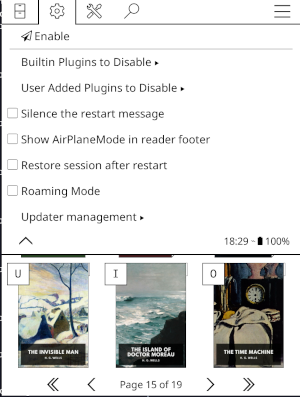
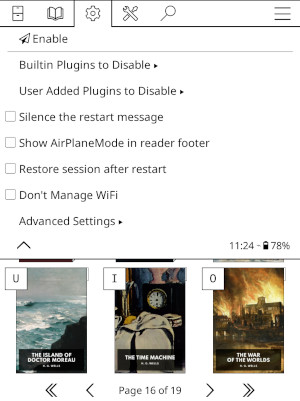
Pre-release clean-up (#81)
* Updates to docs for release

Pull request: Pre-release clean-up
Cleaning up for a release to replace broken code in the current version

Changed region(s): [[0.0, 0.0, 1.0, 1.0], [0.06, 0.2116, 0.63, 0.2418]]

diff --git a/CHANGELOG.md b/CHANGELOG.md
@@ -1,43 +1,49 @@
 # Changelog
 
-## v.1.9.9 (pre-release)
+## [1.9.0]
 
-### 🚀 Added
+### Added 🚀
 
-- An update manager - now you can update AirPlaneMode from directly inside the plugin (#71)
 - Broke builtin and user added plugins into separate spaces (#64)
+- Added `About` box, as well as more information for use when submitting bug reports
 
-### 🏠 Housekeeping
+### Housekeeping 🏠
 
-* Heavy refactor, breaking the monolithic lua file into components
-* Moved all settings management that is AirPlaneMode specific to the AirPlaneMode config file
-* Added a hook for `stopPlugin` calls (#68)
-* Added a hook to delete configs when being disabled by KOReader the plugin manager (#65)
-* Improved linting and tests for pre-release checks
+- Heavy initial refactor, breaking the monolithic lua file into components
+- Moved all settings management that is AirPlaneMode specific to the AirPlaneMode config file
+- Added a hook for `stopPlugin` calls (#68)
+- Added a hook to delete configs when being disabled by KOReader the plugin manager (#65)
+- Improved linting and tests for pre-release checks
 
-## v.1.2.2 🔥
+### Experimental 💣
+
+- Developer mode added - disable/enable features that are still in progress
+- Debug logging - enables/disables debug logging, only available when devmode is on
+- Update manager - now you can update AirPlaneMode from directly inside the plugin (#71). Currently gated with dev mode
+
+## [1.2.2] 🔥
 
 - More version comparison fun. Removed it. Found while testing issue #60
 
-## v.1.2.1 🔥
+## [1.2.1] 🔥
 
 - Fixed logic bug for version comparisons (was trying to compare ints, but sometimes I had alphanumeric versions)
 - Fixed a typo that could cause crashes
 
-## v.1.2.0
+## [1.2.0]
 
 - for when you mess up your own tagging scheme.
 
-## v.1.1.0
+## [1.1.0]
 
-### 🚀 Added
+### Added 🚀
 
 - Added additional settings flushes - in final testing for the next release, discovered that without those extra flushes changes weren't being properly propagated.
 - New Koreader release, bumping this build for stable users.
 
-## v.1.0.2
+## [1.0.2]
 
-### 🚀 Added
+### Added 🚀
 
 - Issue 52 - adding github actions for linting and release builds
 - Issue 46 - wifi settings that weren't in the original configuration need to be just removed (_except if an emulator_)
@@ -53,15 +59,13 @@
   - Removed message for android devices (no longer relevant)
   - Made "disable device management" visible only to users who can manage their hardware
 
-## v.1.0.1b (2025.11.25)
-
-### 🔥 Hotfix
+## [1.0.1b] (2025.11.25) 🔥
 
 - Issue 32 - crash reported on kindle when enabling/disabling outside of reader mode. Confirmed on KLC.
 
-## v.1.0.1 (2025.11.25)
+## [1.0.1] (2025.11.25)
 
-### 🚀 Added
+### Added 🚀
 
 - Added better version management. The plugin will now warn if being run with a config from a newer version; the \_meta file has been updated to list the version so that external plugin managers like [UpdatesManager](https://github.com/advokatb/updatesmanager.koplugin) can easily identify whether a local install needs updating; general clean up around how the version is stored and updated within the configs
 
@@ -71,15 +75,15 @@
 
 - Added dynamic "plugin stop" call, supporting the new function call to disable a plugin's external software (like with SSH, which spawns dropbear)
 
-### 🩹 Fixes
+### Fixes 🩹
 
 - Fixed how reading location is preserved when restarting. Now accurately returns KOReader to the page it restarted on
 
 - Fix for the reader footer patch to not crash when trying to order or save footer preferences ([#17](https://github.com/kodermike/airplanemode.koplugin/issues/17))
 
-## v.1.0.0 (2025.08.16)
+## [1.0.0] (2025.08.16)
 
-### 🚀 Added
+### Added 🚀
 
 - <u>Configuration management</u> (and a configuration to manage!). This includes
   - Minor updates to plugin support, in particular not turning off Calibre and instead just disabling the wireless function. This lets users continue to search using the calibre metadata search even when offline.
@@ -92,11 +96,11 @@
 
   - Changed what (and how to some extent) we store in the airplanemode configuration file. Existing users should be migrated seemlessly the first time they launch koreader with the new version.
 
-### 🩹 Fixes
+### Fixes 🩹
 
 - Correctly call the ui function to disable SSH if it's running when we start
 
-## v.0.0.4 - QoL update (2025.06.14)
+## [0.0.4] - QoL update (2025.06.14)
 
 - Remove unnecessary visual of a checkbox
 
@@ -108,13 +112,13 @@
 
 - May have finally locked down networking on kindles. Tests on paperwhite are now consistantly up
 
-## v0.0.3 (2025.05.26)
+## [0.0.3] (2025.05.26)
 
-### 🚀 Added
+### Added 🚀
 
 - Gesture support
 
-### 🩹 Fixes
+### Fixes 🩹
 
 - Finally figured out enable/disble wifi so it works on different devices correctly. Tested on Clara and Kindle, plugin settings reverted correctly, wifi reconnected correctly, and wireless settings are not lost
 
@@ -126,13 +130,13 @@
 
 - Fixed deleting all temporary plugin disables before restoring
 
-## v0.0.2 (2025.05.22)
+## [0.0.2] (2025.05.22)
 
-### 🚀 Added
+### Added 🚀
 
 - No additions today.
 
-### 🩹 Fixes
+### Fixes 🩹
 
 - Replaced how we reference files from `rootpath` to the function for
   `DataStorage:getDataDir` - I suspect this was causing some of the issues on
@@ -144,9 +148,9 @@
 
 - Removed a block that was setting a variable, replacing the value, resetting it, but never actually _using_ it
 
-## v0.0.1 (2025.05.21)
+## [0.0.1] (2025.05.21)
 
-### 🚀 Added
+### Added 🚀
 
 - Clicking AirPlane Mode now opens a menu where you can choose between
   enable/disabe and editing which plugins are included as disabled
@@ -161,18 +165,18 @@
 
 - Documentation updated!
 
-### 🩹 Fixes
+### Fixes 🩹
 
 - cleaned up all of the commented code and debug statements :-)
 
-## v0.0.1-alpha (2025.05.06)
+## [0.0.1-alpha] (2025.05.06)
 
 - Initial testing release
 
-### 🚀 Added
+### Added 🚀
 
 - Everything
 
-### 🩹 Fixes
+### Fixes 🩹
 
 - Existential nihilism

diff --git a/CONTRIBUTING.md b/CONTRIBUTING.md
@@ -20,9 +20,12 @@ Find a bug? Have a suggestion for a new feature? Notice a mistake in the documen
 Bug reports are an unfortunate part of software development, but without reports I won't always know there's a problem. If something goes wrong, please [Open an **Issue**](https://github.com/kodermike/airplanemode.koplugin/issues) and include:
 
 - A clear description of what happened vs. what you expected
-- Your **KOReader version** (visible in ☰ → Help → About)
-- Your **device model** (e.g. Kobo Libra 2, Kindle Paperwhite 5)
-- The version of **AirPlaneMode** you are using (visible in ⚙️ → Network → AirPlaneMode → About)
+- From ⚙️ → Network → AirPlaneMode → Advanced Settings, please include:
+  - The version of **AirPlaneMode** you are using
+  - The version of **KOReader** you are using
+  - What kind of **device** you are using
+  - What **firmware** your device is using if applicable
+
 - The steps to reproduce the problem, if you can
 
 If the bug causes a crash, the KOReader log (`crash.log` in the KOReader folder) is very helpful. If you can provide a snippet around the problem, even if it didn't produce a crash there may still be useful information in the log.
@@ -50,16 +53,16 @@ The [KOReader emulator](https://github.com/koreader/koreader/blob/master/doc/Bui
 
 ### Making a change
 
-- **Fork** the [AirPlaneMode repository](https://github.com/kodermike/airplanemode.koplugin.git) (click the Fork button at the top right of the GitHub page). If your change is a new feature, or a bug fix for the `features` branch, be sure to uncheck the option to only copy the `main` branch.
-- Create a new branch for your change. If your change is a bug fix, use `fix/` as the prefix. Please branch off of the branch that corresponds to the version you are targeting
-  - `main` is for bug fixes that apply to the stable quarterly releases of KOReader
-  - `features` is for new features that are not yet ready for a stable release and work against the `nightly` release of KOReader. If it's a new feature, please checkout the `features` branch first, then branch off of it and use `feature/` as the prefix.
+- **Fork** the [AirPlaneMode repository](https://github.com/kodermike/airplanemode.koplugin.git) (click the Fork button at the top right of the GitHub page). If your change is a new feature, or a bug fix for the `feature` branch, be sure to uncheck the option to only copy the `main` branch.
+- Create a new branch for your change. If your change is a bug fix, use `fix/` as the prefix. If this is a new feature, please use `feature/` as the prefix to your branch name. Please branch off of the branch that corresponds to the version you are targeting
+  - Fork from`main` for bug fixes that apply to the stable release. Everything in `main` should work with the current stable release of KOReader
+  - Fork from`feature` for new features or bug fixes that apply only to this branch. The `feature` branch is verified against the nightly KOReader release first, then against the stable release before being merged into `main`.
 
 ```
 # If submitting a bug fix for main
-git checkout -b fix/my-bug-description
+git checkout main && git checkout -b fix/my-bug-description
 # If submitting a new feature
-git checkout features && git checkout -b feature/my-nifty-feature
+git checkout feature && git checkout -b feature/my-nifty-feature
 ```
 
 - Make your changes
@@ -72,7 +75,7 @@ git checkout features && git checkout -b feature/my-nifty-feature
 git commit -m "Fix plugin crashes when on actual airplane"
 ```
 
-- Push your branch and open a **Pull Request** against the appropriate branch (`main` or `features`)
+- Push your branch and open a **Pull Request** against the appropriate branch (`main` or `feature`)
 
 ### Code style
 
@@ -86,18 +89,22 @@ git commit -m "Fix plugin crashes when on actual airplane"
 
 ```
 airplanemode.koplugin/
-├── main.lua                  — plugin entry point
-├── flight_config.lua         — generates accessible variables from settings file
-├── flight_footer.lua         — generates the footer icon display for reader mode
-├── flight_network.lua        — wrapper for network calls
-├── flight_plugins.lua        — plugin management for start/stop
-├── display/                  — where most ui code should be found
-│   ├── flight_menu.lua       — generates the main menu
-│   ├── flight_updater_menu.lua  — plugin update menu
-└── utils/                    — frequentky reused functions
-    ├── flight_helpers.lua    — general filesystem helpers
-    ├── flight_updater.lua    — update code
-    └── flight_utilities.lua  — utility wrapper for KOReader calls
+├── main.lua                        — plugin entry point
+├── _meta.lua                       — plugin meta information (version, fullname)
+├── flight_config.lua               — generates global settings
+├── flight_footer.lua               — generates the footer icon for reader mode
+├── flight_network.lua              — wrapper for network calls
+├── flight_plugins.lua              — plugin management for start/stop
+├── display/                        — where most ui code should be found
+│   ├── flight_advanced_menu.lua    — generates menu display of advanced settings
+│   ├── flight_menu.lua             — generates the main menu
+│   └── flight_updater_menu.lua     — plugin update menu
+└── utils/                          — frequentky reused functions
+    ├── flight_deviceinfo.lua       — generates details about the device
+    ├── flight_helpers.lua          — general filesystem helpe
+    ├── flight_log.lua              — logging wrapper
+    ├── flight_updater.lua          — update code
+    └── flight_utilities.lua        — utility wrapper for KOReader calls
 ```
 
 ### Pull Request checklist
@@ -105,7 +112,8 @@ airplanemode.koplugin/
 Before submitting, please verify:
 
 - [ ] The change works on a real device or the KOReader emulator
-- [ ] Running `luacheck` reports no errors
+- [ ] Running `luacheck .` reports no errors
+- [ ] Running `tests/run_tests.sh` shows no errors
 - [ ] The commit message clearly describes the change
 - [ ] If your change is against the `main` branch, no debug logging or commented-out code is left in. Feature changes can contain debug output until merged into the `main` branch for a stable release.
 
@@ -115,7 +123,7 @@ Before submitting, please verify:
 
 Simple changes to documentation (minor typo corrections, for example) can be submitted in the body of an issue.
 
-If the documentation suggestions involves new documentation, or significant changes to current documentation, please consider opening a PR using the same steps as feature request and bug reports that involve new PR's. All documentation is in markdown, and submitted changes should also be in markdown as appropriate.
+If the documentation suggestions involves new documentation, or significant changes to current documentation, please consider opening a PR using the same steps as feature request and bug reports. All documentation is in markdown, and submitted changes should also be in markdown as appropriate.
 
 ---
 

diff --git a/README.md b/README.md
@@ -9,7 +9,7 @@
 
 </div>
 
-**AirPlaneMode** is a [ KOReader ](https://github.com/koreader/koreader.git) plugin that lets you enable/disable networking and selected plugins in one action. The plugin focuses on safely disabling identified plugins while preserving user plugin preferences when disabling.
+**AirPlaneMode** is a [KOReader](https://github.com/koreader/koreader.git) plugin that lets you enable/disable networking and selected plugins in one action. The plugin focuses on safely disabling identified plugins while preserving user plugin preferences when disabling.
 
 ---
 
@@ -18,14 +18,15 @@
 - Enabling **AirPlaneMode** will:
   - Back up the current KOReader settings file
   - Disables a configurable set of plugins
-  - Disabe Wi‑Fi, and changes default Network settings to disable automatic activation
+  - Disables Wi‑Fi, and changes default Network settings to disable automatic activation
   - If the Calibre plugin is enabled, adjusts Calibre's wireless-only settings to off while leaving the plugin search functions enabled
 - Disabling **AirPlaneMode** will:
   - restore previous settings from the backup
   - re-enables plugins that were disabled for **AirPlaneMode**
+
   - Return Wi‑Fi settings to their previous configuration
 
-- On devices where network hardware cannot be managed, Wi‑Fi actions are skipped.
+_On devices where network hardware cannot be managed, Wi‑Fi actions are skipped._
 
 ---
 
@@ -52,7 +53,7 @@
 
 #### For users of AirPlaneMode >=2.0
 
-- In the configuration menu, you can elect to update **AirPlaneMode** directly from the plugin
+- In the configuration menu, you can elect to update **AirPlaneMode** directly from the plugin in the Advance Settings menu.
 
 ## Usage
 
@@ -62,22 +63,25 @@
 ![AirPlaneMode-menu](.github/assets/AirPlaneMode-menu.png)
 
 - Enable / Disable **AirPlaneMode**
-
 - Manage which builtin and user plugins should be disabled when **AirPlaneMode** is active
-
 - Enable silent restarts (assumes confirmation) so that you aren't prompted to restart
-
 - Toggle **AirPlaneMode** visibility in the reader footer. This option also requires `External Content` in the status bar UI to be included.
-
 - Enable the option to resume where you left off if possible when restarting with **AirPlaneMode**. This option temporarily overrides preferences to resume where you left off when toggling **AirPlaneMode**.
+- For applicable devices, disable managing Wi-Fi so that **AirPlaneMode** only manages Plugin settings when enabled
+- Open the **AirPlaneMode** Advanced Settings menu
 
-- If available, enable the option to only manage plugins when **AirPlaneMode** is active instead of managing Network as well.
+The Advanced Settings menu offers the following
 
-- Open the **AirPlaneMode** update manager
+![AirPlaneMode-Advanced](.github/assets/AirPlaneMode-Advanced.png)
+
+- Detailed information about your current setup. This information is especially useful when filing an issue
+- Enable/Disable `Developer Mode`. Developer mode enables features that are still being developed but are not yet ready for general use. At present, this includes:
+  - Update Management
+  - Debug logging
 
 ## Gesture support
 
-Gestures (Device -> Gestures) can be configured to call **AirPlaneMode** actions; the plugin registers three dispatcher actions you can bind to gestures or hotkeys:
+Gestures (Device -> Gestures) can be configured to call **AirPlaneMode** actions; the Plugin registers three dispatcher actions you can bind to gestures or hotkeys:
 
 - `airplanemode_enable` — enable AirPlaneMode
 - `airplanemode_disable` — disable AirPlaneMode
@@ -95,7 +99,7 @@ Gestures (Device -> Gestures) can be configured to call **AirPlaneMode** actions
   - `httpinspector`
   - `calibre` (wireless component only)
 
-Note: **AirPlaneMode's** Plugin Manager only disables plugins inside KOReader while **AirPlaneMode** is active — it does not edit KOReader plugin settings directly.
+Note: **AirPlaneMode's** Plugin Manager only disables plugins in KOReader while **AirPlaneMode** is active — it does not edit KOReader plugin settings directly.
 
 ![AirPlane Mode icon when enabled](.github/assets/enabled.jpg)
 
@@ -103,13 +107,13 @@ Note: **AirPlaneMode's** Plugin Manager only disables plugins inside KOReader wh
 
 ## Contributing
 
-Find a bug 🐛? Want to contribute 🤝? Please see [CONTRIBUTING.md](CONTRIBUTING.md) for more information.
+Find a bug 🐛? Want to contribute 🤝? Please see [CONTRIBUTING](CONTRIBUTING.md) for more information.
 
 ## 🔧 Developer Notes
 
 - **AirPlaneMode** support the `stopPlugin` dispatcher action to stop **AirPlaneMode** from another service or plugin while it is active.
 - **AirPlaneMode** also supports the `deletePluginSettings` dispatcher action to delete all AirPlaneMode settings and reset the installation to a clean slate.
-- The `features` branch is suitable for testing against nightly KOReader builds. The `main` branch is intended to work with stable releases.
+- The `feature` branch is suitable for testing against nightly KOReader builds. The `main` branch is intended to work with stable releases.
 - For more detailed information on contributing, please see [CONTRIBUTING.md](CONTRIBUTING.md).
 
-###### Updated 2026.06.04
+###### Updated 2026.06.20